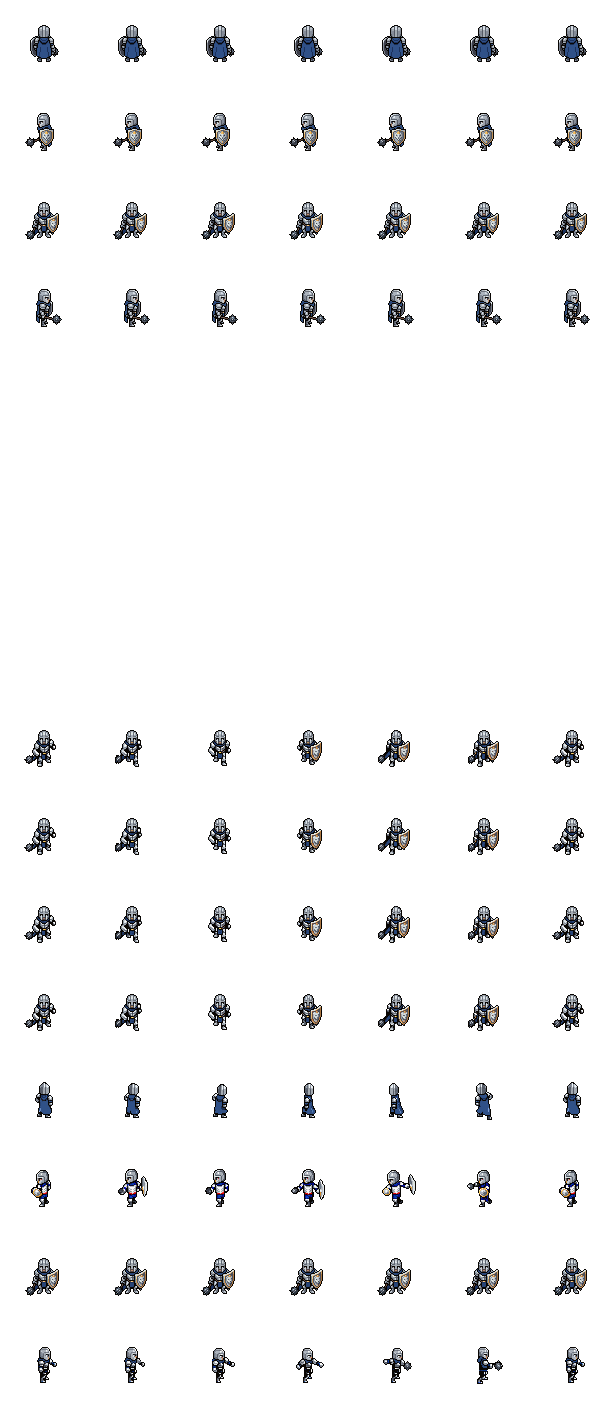
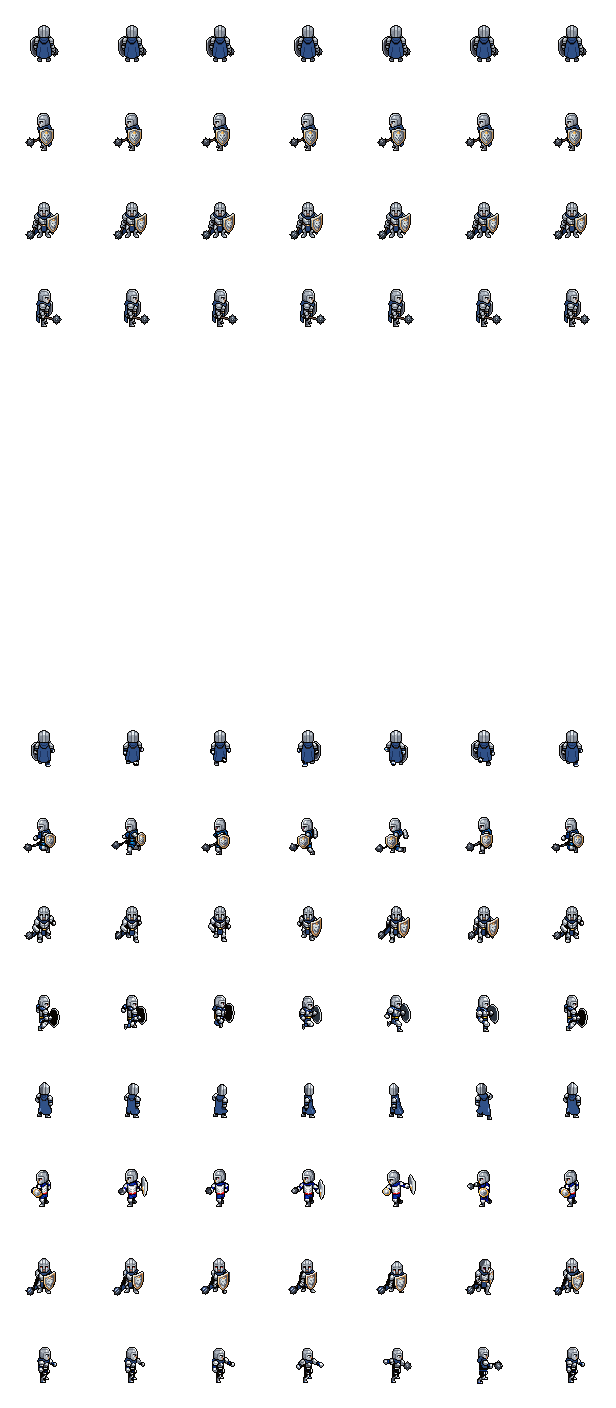
fix sprites

diff --git a/stitch_pixellab.py b/stitch_pixellab.py
@@ -35,35 +35,42 @@ characters = {
     'enemy_energy_elemental': '990a9ad3-49de-4a63-9ca2-f1dc3ec92e7a'
 }
 
-def find_anim_folder(base_path, anim_keywords):
+def find_anim_folders(base_path, anim_keywords):
     search_path = os.path.join(base_path, "animations")
-    if not os.path.exists(search_path): return None
+    if not os.path.exists(search_path): return []
+    matched = []
     for folder in os.listdir(search_path):
         for kw in anim_keywords:
             if kw.lower() in folder.lower():
-                return os.path.join(search_path, folder)
-    return None
+                matched.append(os.path.join(search_path, folder))
+                break
+    return matched
 
-def get_frames(folder_path, dir_name):
-    if not folder_path: return []
+def get_frames(folder_paths, dir_name):
+    if not folder_paths: return []
     synonyms = {
         'north': ['north', 'up', 'back'],
         'south': ['south', 'down', 'front'],
         'west': ['west', 'left'],
         'east': ['east', 'right']
     }
-    
-    for syn in synonyms.get(dir_name, [dir_name]):
-        path = os.path.join(folder_path, syn)
-        if os.path.exists(path):
-            return sorted(glob.glob(os.path.join(path, "*.png")))
-            
-    # Fallbacks
-    for fb in ['front', 'south', 'down']:
-        fallback = os.path.join(folder_path, fb)
-        if os.path.exists(fallback):
-            return sorted(glob.glob(os.path.join(fallback, "*.png")))
-            
+
+    # Search in all matched folders for the direction
+    for folder_path in folder_paths:
+        for syn in synonyms.get(dir_name, [dir_name]):
+            path = os.path.join(folder_path, syn)
+            if os.path.exists(path):
+                frames = sorted(glob.glob(os.path.join(path, "*.png")))
+                if frames: return frames
+
+    # Fallbacks in all matched folders
+    for folder_path in folder_paths:
+        for fb in ['front', 'south', 'down']:
+            fallback = os.path.join(folder_path, fb)
+            if os.path.exists(fallback):
+                frames = sorted(glob.glob(os.path.join(fallback, "*.png")))
+                if frames: return frames
+
     return []
 
 def get_base_rot(tmp_dir, dir_name):
@@ -76,11 +83,11 @@ def get_base_rot(tmp_dir, dir_name):
     for syn in synonyms.get(dir_name, [dir_name]):
         path = os.path.join(tmp_dir, "rotations", f"{syn}.png")
         if os.path.exists(path): return path
-        
+
     for fb in ['front', 'south', 'down']:
         path = os.path.join(tmp_dir, "rotations", f"{fb}.png")
         if os.path.exists(path): return path
-        
+
     return None
 
 print("🚀 Corrigiendo Spritesheets para el motor 7x16...")
@@ -97,19 +104,19 @@ for name in characters:
             c_sw, c_sh = img.size
 
     img_out = Image.new('RGBA', (c_sw * COLS, c_sh * ROWS), (0,0,0,0))
-    
-    # Carpetas de animaciones
-    idle_p = find_anim_folder(tmp_dir, ["breathing", "idle"])
-    walk_p = find_anim_folder(tmp_dir, ["walking", "walk", "run"])
-    attack_p = find_anim_folder(tmp_dir, ["fireball", "punch", "attack", "cross-punch"])
+
+    # Carpetas de animaciones (Listas)
+    idle_folders = find_anim_folders(tmp_dir, ["breathing", "idle"])
+    walk_folders = find_anim_folders(tmp_dir, ["walking", "walk", "run"])
+    attack_folders = find_anim_folders(tmp_dir, ["fireball", "punch", "attack", "cross-punch"])
 
     for d_name, d_idx in DIRS_MAP.items():
         base_rot = get_base_rot(tmp_dir, d_name)
         if not base_rot: base_rot = first_frame
 
-        idles = get_frames(idle_p, d_name)
-        walks = get_frames(walk_p, d_name)
-        attacks = get_frames(attack_p, d_name)
+        idles = get_frames(idle_folders, d_name)
+        walks = get_frames(walk_folders, d_name)
+        attacks = get_frames(attack_folders, d_name)
 
         for i in range(COLS):
             # IDLE (Filas 0-3)
@@ -126,5 +133,4 @@ for name in characters:
 
     img_out.save(f"assets/{name}.png")
     print(f"✅ Corregido: assets/{name}.png")
-
 print("✨ ¡Todo arreglado! Las animaciones ahora deben ejecutarse correctamente.")
